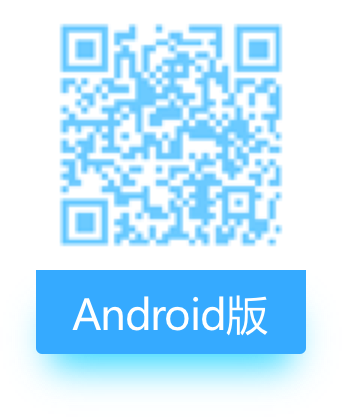
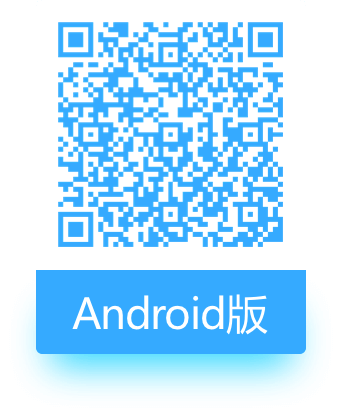
QR code of iOS/Android ;Download link

diff --git a/mobile-index.html b/mobile-index.html
@@ -26,7 +26,7 @@
     </div>
     <div class="content-bottom">
       <div class="box-android-ios inline-block">
-        <a href="" class="inline-block android-ios">
+        <a href="http://sj.qq.com/myapp/detail.htm?apkName=net.muxi.huashiapp" class="inline-block android-ios">
           <svg viewBox="0 0 274 96">
             <use xmlns:xlink="http://www.w3.org/1999/xlink" xlink:href="#android"></use>
           </svg>
